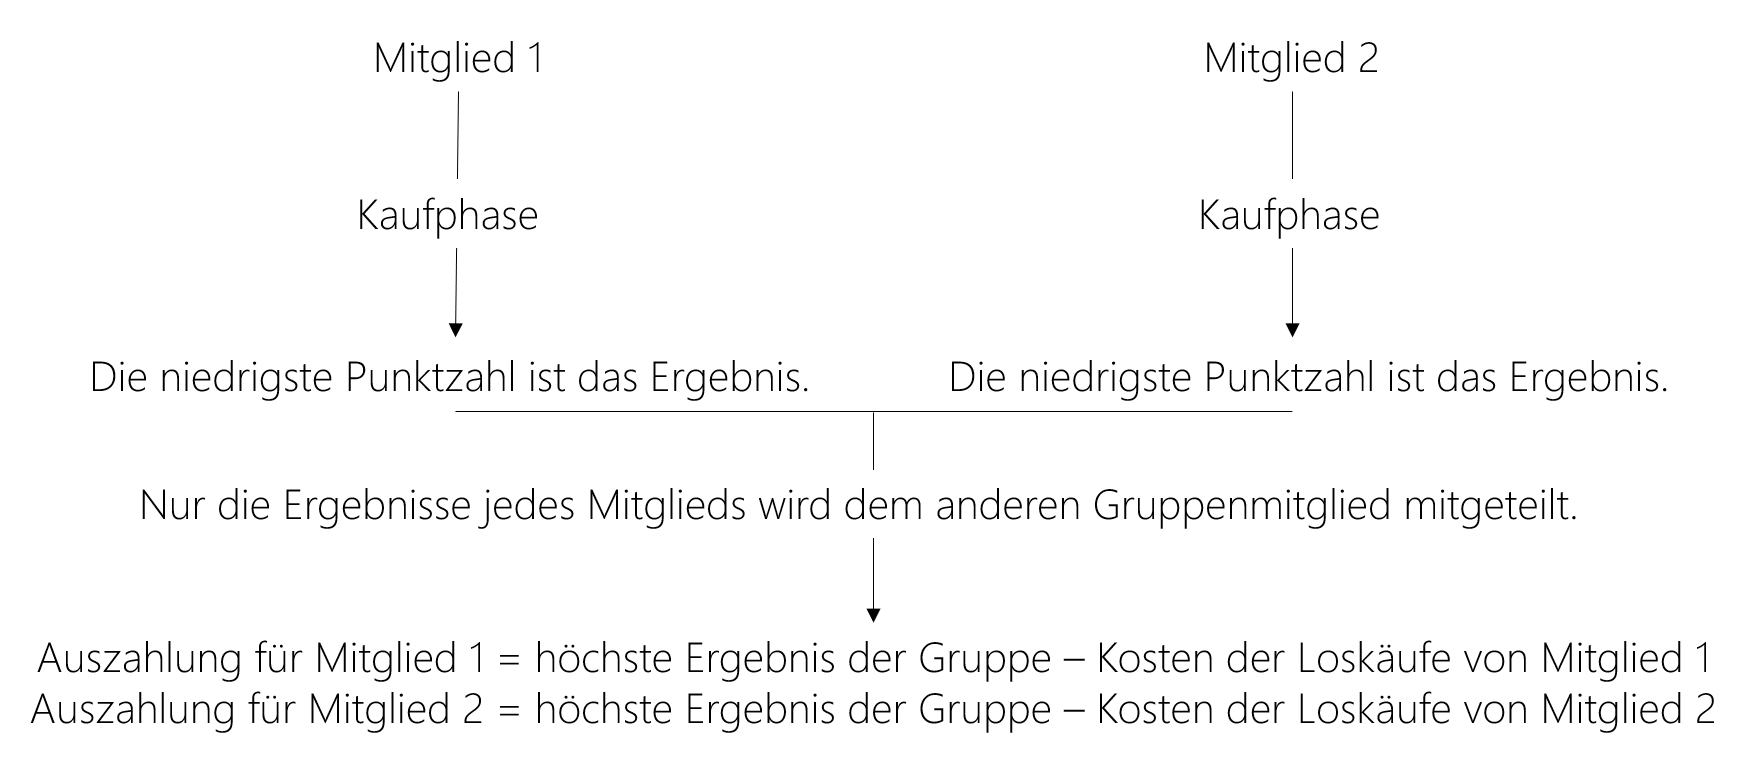
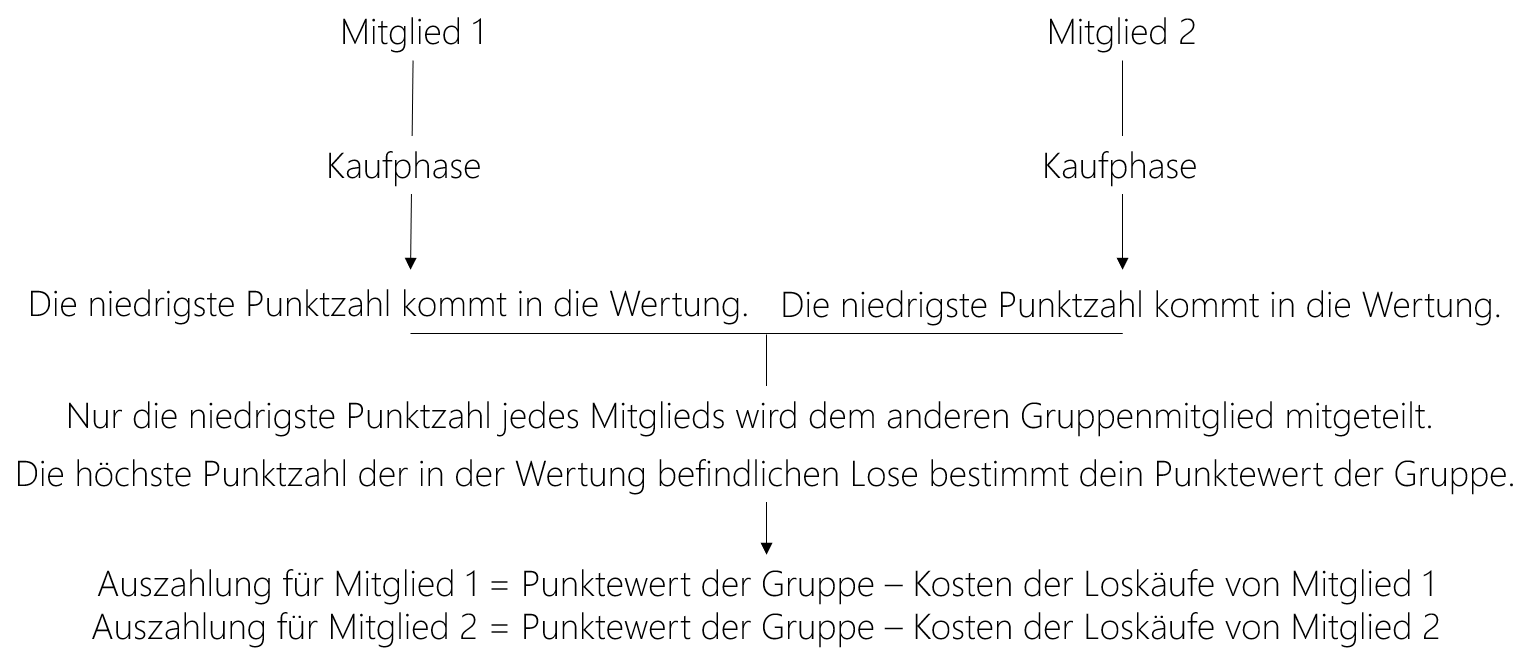
Language fix

diff --git a/_templates/global/inst/inst6_minmax.html b/_templates/global/inst/inst6_minmax.html
@@ -1,7 +1,8 @@
 <p> <b> Auszahlungen:</b> <br>
-Am Ende der 10-minütigen Kaufphase wird Ihre persönliche Auszahlung festgelegt. Die Auszahlung richtet sich nach den Kosten für eigene Loskäufe und dem höchsten Ergebnis der beiden Gruppenmitglieder. Während beide Gruppenmitglieder dieses höchste Ergebnis als Auszahlung erhalten, werden die Kosten für Loskäufe nur jeweils dem Gruppenmitglied in Rechnung gestellt, das diese Kosten verursacht hat. <br> <br>
+Am Ende der 10-minütigen Kaufphase wird Ihre persönliche Auszahlung festgelegt. Die Auszahlung richtet sich nach den Kosten für eigene Loskäufe und dem Punktewert der Gruppe. Nur die <u>niedrigste</u> Punktzahl eines jeden Gruppenmitglieds kommt in die Wertung. Die <u>höchste</u> Punktzahl in der Wertung bestimmt den Punktwert der Gruppe. <br>
+Während beide Gruppenmitglieder den Punktwert der Gruppe als Auszahlung erhalten, werden die Kosten für Loskäufe nur jeweils dem Gruppenmitglied in Rechnung gestellt, das diese Kosten verursacht hat. <br> <br>
 <b>Für Ihre Auszahlung gilt:</b> <br>
-Ihre Auszahlung in Punkten = Das höchste Ergebnis in Ihrer 2er-Gruppe – Anzahl Ihrer eigenen Loskäufe  </p>
+Ihre Auszahlung in Punkten = Punktewert Ihrer 2er-Gruppe – Anzahl Ihrer eigenen Loskäufe  </p>
 
-<p> Bitte beachten Sie, dass bis auf das Los des höchsten Ergebnisses in der Gruppe alle anderen Lose für die Auszahlung irrelevant sind. Sie zahlen dennoch die Kosten für alle von Ihnen gekauften Lose.  </p>
+<p> Bitte beachten Sie, dass bis auf die Lose mit der niedrigsten Punktzahl eines jeden Gruppenmitglieds alle anderen Lose für die Auszahlung irrelevant sind. Sie zahlen dennoch die Kosten für alle von Ihnen gekauften Lose.  </p>
  <br>

diff --git a/_templates/global/main/collapsed_inst_minmax.html b/_templates/global/main/collapsed_inst_minmax.html
@@ -1,4 +1,5 @@
 <p> <b> Auszahlungen:</b> <br>
-Am Ende der 10-minütigen Kaufphase wird Ihre persönliche Auszahlung festgelegt. Die Auszahlung richtet sich nach den Kosten für eigene Loskäufe und dem höchsten Ergebnis der beiden Gruppenmitglieder. Während beide Gruppenmitglieder dieses höchste Ergebnis als Auszahlung erhalten, werden die Kosten für Loskäufe nur jeweils dem Gruppenmitglied in Rechnung gestellt, das diese Kosten verursacht hat. <br> <br>
+Am Ende der 10-minütigen Kaufphase wird Ihre persönliche Auszahlung festgelegt. Die Auszahlung richtet sich nach den Kosten für eigene Loskäufe und dem Punktewert der Gruppe. Nur die <u>niedrigste</u> Punktzahl eines jeden Gruppenmitglieds kommt in die Wertung. Die <u>höchste</u> Punktzahl in der Wertung bestimmt den Punktwert der Gruppe. <br>
+Während beide Gruppenmitglieder den Punktwert der Gruppe als Auszahlung erhalten, werden die Kosten für Loskäufe nur jeweils dem Gruppenmitglied in Rechnung gestellt, das diese Kosten verursacht hat. <br> <br>
 <b>Für Ihre Auszahlung gilt:</b> <br>
-Ihre Auszahlung in Punkten = Das höchste Ergebnis in Ihrer 2er-Gruppe – Anzahl Ihrer eigenen Loskäufe  </p>
+Ihre Auszahlung in Punkten = Punktewert Ihrer 2er-Gruppe – Anzahl Ihrer eigenen Loskäufe  </p>

diff --git a/main_exp_option/templates/main_exp_option/Option.html b/main_exp_option/templates/main_exp_option/Option.html
@@ -2,16 +2,16 @@
 {% load otree %}
 
 {% block title %}
-Option zum Umgehen der Gruppenaufgabe
+Option zum Nichtteilnahme an der Kaufphase der Gruppenaufgabe
 {% endblock %}
 
 {% block content %}
 
-    <p> Sie haben die Möglichkeit, die Gruppenaufgabe zu umgehen. Wenn Sie diese Option wählen, sind Ihre Kosten 0 und Ihr höchstes Los wird auf 55 gesetzt. </p>
+    <p> Sie haben die Möglichkeit, nicht an der Kaufphase der Gruppenaufgabe teilnehmen. Wenn Sie diese Option wählen, sind Ihre Kosten 0 und Ihr höchstes Los wird auf 55 gesetzt. </p>
       <br>
     <p> Bitte beachten Sie, dass Sie das Ende der 10-minütigen Kaufphase trotzdem abwarten müssen, auch wenn Sie die Option gewählt haben. Die Pop-up-Meldung wird ebenfalls irgendwann erscheinen, wie zuvor beschrieben. </p>
       <br>
-    <p> Wenn Sie die Option nicht wählen, nehmen Sie wie in den Instruktionen beschrieben an der Aufgabe teil. </p>
+    <p> Wenn Sie die Option nicht wählen, nehmen Sie, wie in den Instruktionen beschrieben, an der Gruppenaufgabe teil. </p>
       <br>
 <p> Möchten Sie die Option annehmen? </p>
       <br>

diff --git a/_templates/global/inst/inst8_minmax.html b/_templates/global/inst/inst8_minmax.html
@@ -1,19 +1,19 @@
 <div class="row">
   <div class="column">
     <b>1. Gruppenmitglied</b>
-    <p>Los mit niedrigster Punktzahl: 40 Punkte <br>
+    <p>Gezogene Lose: 40, 50, 60 Punkte <br>
     Die Gesamtkosten der Loskäufe: 3 Punkte</p>
   </div>
   <div class="column">
     <b>2. Gruppenmitglied</b>
-    <p>Los mit niedrigster Punktzahl: 60 Punkte <br>
+    <p>Gezogene Lose: 60, 65, 65, 70, 75, 75, 80, 85 Punkte <br>
     Die Gesamtkosten der Loskäufe: 8 Punkte</p>
   </div>
 </div>
 
-<p> Das Ergebnis des 1. Gruppenmitglieds: 40 Punkte <br>
-Das Ergebnis des 2. Gruppenmitglieds: 60 Punkte <br>
-Das höchste Ergebnis der Gruppe: 60 Punkte <br>
+<p> Das Los mit der niedrigsten Punktzahl des 1. Gruppenmitglieds: 40 Punkte <br>
+Das Los mit der niedrigsten Punktzahl des 2. Gruppenmitglieds: 60 Punkte <br>
+Der Punktewert der Gruppe: 60 Punkte <br>
 
 Die Auszahlung für das 1. Gruppenmitglied  beträgt: 60 - 3 = 57 Punkte <br>
 Die Auszahlung für das 2. Gruppenmitglied  beträgt: 60 - 8 = 52 Punkte </p>

diff --git a/_templates/global/inst/inst3_minmax.html b/_templates/global/inst/inst3_minmax.html
@@ -1,5 +1,2 @@
 <p> <b> Die Gruppenaufgabe:</b> <br>
-Die Aufgabe der Gruppe ist es, Punkte zu sammeln. Sie können Punkte erwerben, indem Sie Lose kaufen. Jedes Mitglied einer 2er-Gruppe kann während einer 10-minütigen Kaufphase Lose kaufen. Die Punktzahl der gezogenen Lose jedes Gruppenmitglieds bestimmt das individuelle Ergebnis. </p>
-
-<p> <b> Die Ergebnisse:</b> <br>
-Die <u>niedrigste</u> gezogene Punktzahl eines jeden Mitglieds ist sein individuelles Ergebnis. Das <u>höchste</u> Ergebnis der Gruppenmitglieder bestimmt Ihre Auszahlung. </p>
+Die Aufgabe der Gruppe besteht darin, Punkte zu erwerben. Sie können Punkte durch Loskäufe erwerben. Jedes Mitglied einer 2er-Gruppe kann während einer 10-minütigen Kaufphase Lose kaufen. Jedes Gruppenmitglied bringt <u>nur</u> das Los mit der <u>niedrigsten</u> gezogenen Punktzahl in die Wertung. Die <u>höchste</u> Punktzahl der Lose, die die Gruppenmitglieder in die Wertung bringen, bestimmt den erzielten Punktewert für die Gruppenaufgabe. </p>

diff --git a/_templates/global/inst/inst9_minmax.html b/_templates/global/inst/inst9_minmax.html
@@ -1,8 +1,8 @@
 <p> Im folgenden bitten wir Sie, für 2 hypothetische Szenarien Auszahlungen zu berechnen. </p> <br>
    
 <p> <b> Szenario 1:</b> <br> 
-Gezogene Lose von deim 1. Gruppenmitglied: 94, 85, 100, 98 Punkte <br>
-Gezogene Lose von deim 2. Gruppenmitglied: 60, 72, 47, 59, 30, 81, 65, 75, 38 Punkte <br>
+Gezogene Lose des 1. Gruppenmitglieds: 94, 85, 100, 98 Punkte <br>
+Gezogene Lose des 2. Gruppenmitglieds: 60, 72, 47, 59, 30, 81, 65, 75, 38 Punkte <br>
 Anzahl der Loskäufe des 1. Gruppenmitglieds: 4 <br>
 Anzahl der Loskäufe des 2. Gruppenmitglieds: 9 <br> <br>
 Ihre Antwort:

diff --git a/_templates/global/inst/inst7_minmax.html b/_templates/global/inst/inst7_minmax.html
@@ -11,9 +11,9 @@
   </div>
 </div>
 
-<p> Das Ergebnis des 1. Gruppenmitglieds: 50 Punkte <br>
-Das Ergebnis des 2. Gruppenmitglieds: 0 Punkte <br>
-Das höchste Ergebnis der Gruppe: 50 Punkte <br>
+<p> Das Los mit der niedrigsten Punktzahl des 1. Gruppenmitglieds: 50 Punkte <br>
+Das Los mit der niedrigsten Punktzahl des 2. Gruppenmitglieds: 0 Punkte <br>
+Der Punktewert der Gruppe: 50 Punkte <br>
 
 Die Auszahlung für das 1. Gruppenmitglied  beträgt: 50 - 6 = 44 Punkte <br>
 Die Auszahlung für das 2. Gruppenmitglied  beträgt: 50 - 0 = 50 Punkte </p>

diff --git a/main_exp_option/templates/main_exp_option/OptionWait.html b/main_exp_option/templates/main_exp_option/OptionWait.html
@@ -13,9 +13,9 @@ Diese Seite nicht verlassen
 
 {% block content %}
 
-    <p> Sie haben die Option zur Umgehung gewählt. <br>
+    <p> Sie haben die Option zur Nichtteilnahme an der Kaufphase der Gruppenaufgabe gewählt. <br>
      Sie müssen warten, bis die Kaufphase beendet ist. Vergessen Sie die Pop-up-Meldung nicht.</p>
       <br>
-    <p> Diese Seite wird am Ende der Kaufphase automatisch fortgesetzt.</p>
+    <p> Sie werden am Ende der Kaufphase automatisch weitergeleitet.</p>
 
 {% endblock %}

diff --git a/_templates/global/main/gr_result_minmax.html b/_templates/global/main/gr_result_minmax.html
@@ -3,7 +3,7 @@
   <br>
 <p> Die niedrigste gezogene Punktzahl Ihres Partners:<b> {{other_performance}}</b></p>
   <br>
-<p> Das höchste Ergebnis in Ihrer Gruppe:<b> {{total_performance}}</b></p>
+<p> Der Punktewert der Gruppe:<b> {{total_performance}}</b></p>
   <br>
 <p> Die Gesamtkosten für Ihre Loskäufe betragen: <b> {{my_costs}}</b></p>
 <br>

diff --git a/_templates/global/main/hypo4_minmax.html b/_templates/global/main/hypo4_minmax.html
@@ -1,0 +1,8 @@
+    <p>
+        Was denken Sie, wie hoch ist die niedrigste geloste Punktzahl Ihres Partners? <br>
+        Bitte schreiben Sie Ihre Einschätzung im Kasten unten auf.
+    </p>
+
+    <p style="font-family:courier";"font-size:18px";"color:gray";>
+        (Die Punktzahl liegt zwischen {{min_opp}} und {{max_opp}}.)
+    </p>

diff --git a/main_exp_minmax/templates/main_exp_minmax/Hypothetical4.html b/main_exp_minmax/templates/main_exp_minmax/Hypothetical4.html
@@ -7,7 +7,7 @@
 
 {% block content %}
 
-{% include "global/main/hypo4.html" %}
+{% include "global/main/hypo4_minmax.html" %}
 
 
     {% formfields %}

diff --git a/Instructions_minmax/models.py b/Instructions_minmax/models.py
@@ -37,8 +37,8 @@ class Group(BaseGroup):
 class Player(BasePlayer):
 
     # Comprehension Questions
-    q_minmax1 = models.IntegerField(label="Das Ergebnis für das 1. Gruppenmitglied beträgt:")
-    q_minmax2 = models.IntegerField(label="Das Ergebnis für das 2. Gruppenmitglied beträgt:")
+    q_minmax1 = models.IntegerField(label="Die niedrigste gezogene Punktzahl des 1. Gruppenmitglieds beträgt:")
+    q_minmax2 = models.IntegerField(label="Die niedrigste gezogene Punktzahl des 2. Gruppenmitglieds beträgt:")
     q1 = models.IntegerField(label="Die Auszahlung für das 1. Gruppenmitglied beträgt:")
     q2 = models.IntegerField(label="Die Auszahlung für das 2. Gruppenmitglied beträgt:")
     q3 = models.IntegerField(label="Die Auszahlung für das 1. Gruppenmitglied beträgt:")
